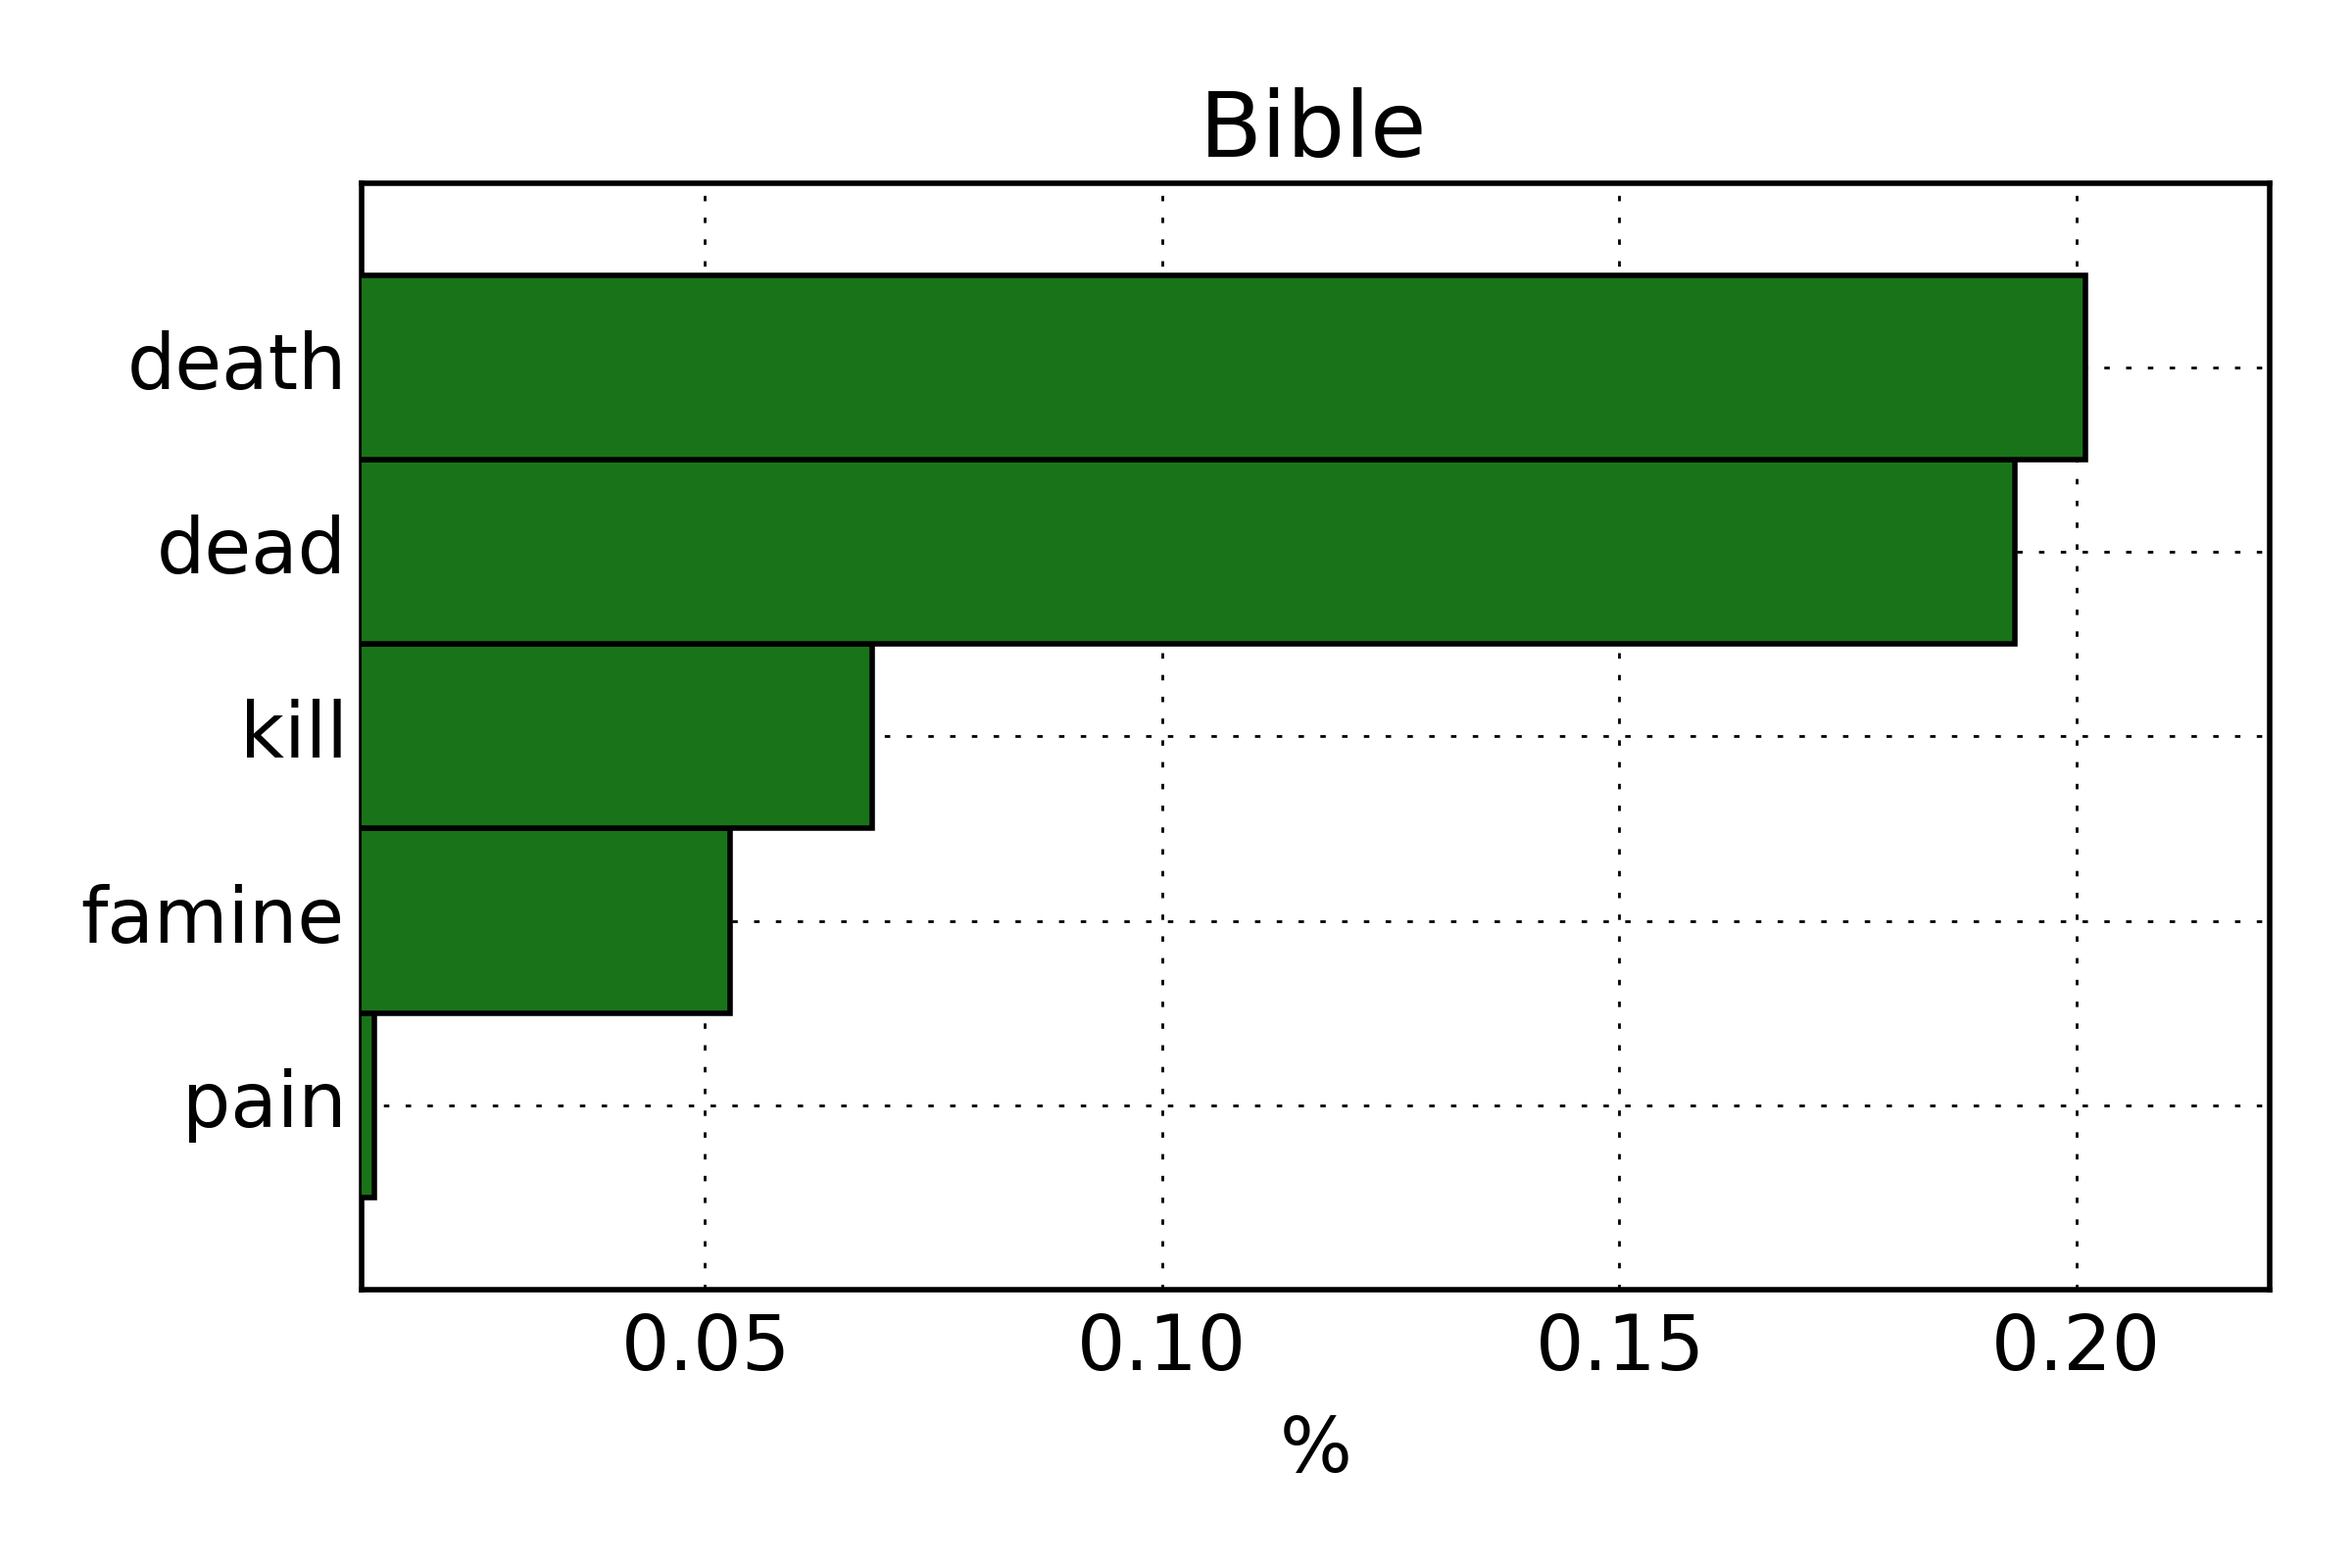
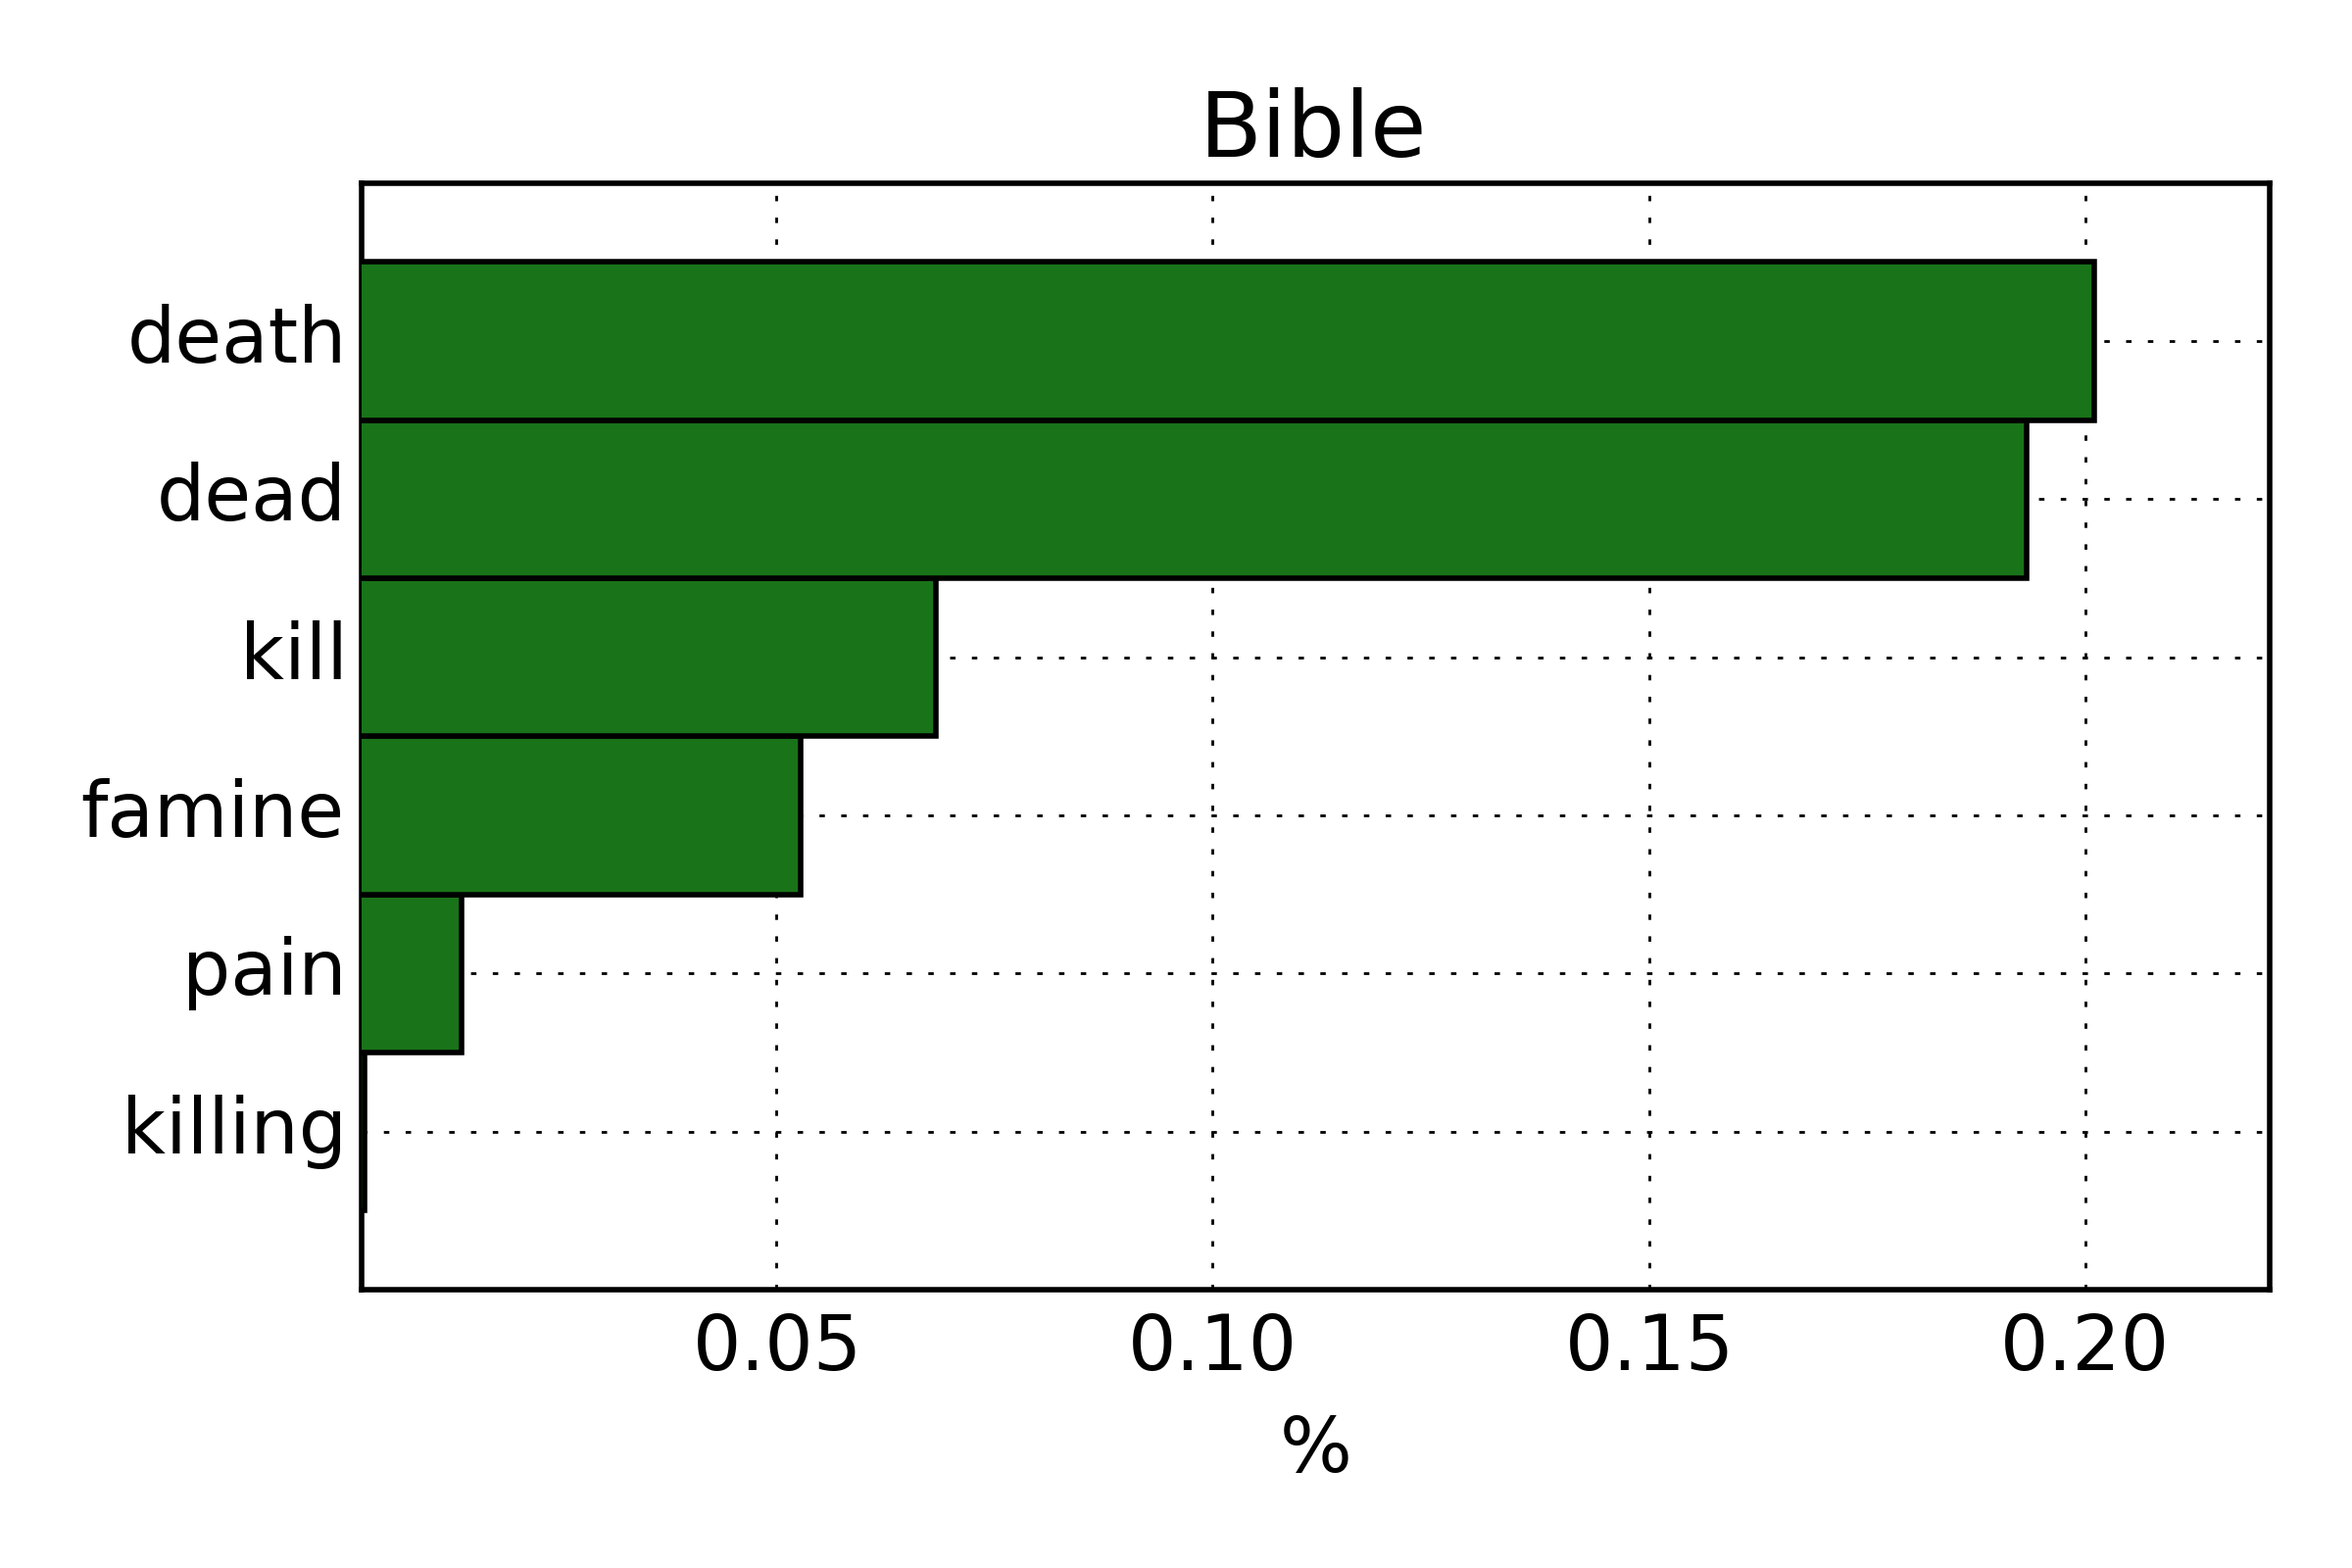
Added the word killing to k/d ratio

diff --git a/Code/main.py b/Code/main.py
@@ -26,6 +26,9 @@ plt.rc('font', **font)
 
 if __name__ == '__main__':
 
+    data_dir = '../Data/'
+    save_dir = '../Figures/'
+
     '''
     Counting
     '''
@@ -34,6 +37,7 @@ if __name__ == '__main__':
     top = 10
 
     # Load the bible and quran
+
     txts = ['Bible', 'Quran']
     plus = '_nouns'
 
@@ -45,7 +49,7 @@ if __name__ == '__main__':
     for j in txts:
         tj += 1
         frequencies = Counter()
-        with open(j + plus + '.txt') as f:
+        with open(data_dir + j + plus + '.txt') as f:
             for line in f:
                 frequencies.update(line.lower().split())
 
@@ -92,7 +96,7 @@ if __name__ == '__main__':
 
         ax.set_title(to_title)
         plt.tight_layout()
-        plt.savefig(to_save + '.png', dpi=400)
+        plt.savefig(save_dir + to_save + '.png', dpi=400)
 
         plt.show()
 
@@ -115,7 +119,7 @@ if __name__ == '__main__':
         for j in txts:
             tj += 1
             frequencies = Counter()
-            with open(j + plus + '.txt') as f:
+            with open(data_dir + j + plus + '.txt') as f:
                 for line in f:
                     frequencies.update(line.lower().split())
 
@@ -160,7 +164,7 @@ if __name__ == '__main__':
 
             ax.set_title(to_title)
             plt.tight_layout()
-            plt.savefig(to_save + '.png', dpi=400)
+            plt.savefig(save_dir + to_save + '.png', dpi=400)
 
             plt.show()
 
@@ -179,13 +183,13 @@ if __name__ == '__main__':
     # Set aspect ratio to be equal so that pie is drawn as a circle.
     plt.axis('equal')
     plt.title('Pos/neg ratio')
-    plt.savefig('pos_neg_ratio.png', dpi=400)
+    plt.savefig(save_dir + 'pos_neg_ratio.png', dpi=400)
     plt.show()
 
     '''
-    Kill, famine, pain, death(+dead)
+    Kill, killing, famine, pain, death(+dead)
     '''
-    bad_words = np.array(['kill', 'famine', 'pain', 'death', 'dead'])
+    bad_words = np.array(['kill', 'killing', 'famine', 'pain', 'death', 'dead'])
     top = len(bad_words)
     top_words_count = np.zeros([len(txts), top])
     top_words_name = np.chararray([len(txts), top], itemsize=50)
@@ -194,7 +198,7 @@ if __name__ == '__main__':
     for k in xrange(len(txts)):
         bad_words_num = np.zeros(top)
 
-        data = np.genfromtxt(txts[k] + '_neg.txt', delimiter='\n', dtype=np.str, autostrip=True)
+        data = np.genfromtxt(data_dir + txts[k] + '_neg.txt', delimiter='\n', dtype=np.str, autostrip=True)
 
         for i in xrange(len(data)):
             if data[i] in bad_words:
@@ -220,7 +224,20 @@ if __name__ == '__main__':
     k_d = np.zeros(len(txts))
     for k in xrange(len(txts)):
 
-        k_d[k] = rev_top_words_count[k, 2] / (rev_top_words_count[k, 0] + rev_top_words_count[k, 1])
+        #k_d[k] = rev_top_words_count[k, 2] / (rev_top_words_count[k, 0] + rev_top_words_count[k, 1])
+
+        tot_kill = 0
+        tot_dead = 0
+
+        for i in xrange(top):
+            if rev_top_words_name[k, i] == 'kill' or rev_top_words_name[k, i] == 'killing':
+                #print 'kill'
+                tot_kill += rev_top_words_count[k, i]
+            elif rev_top_words_name[k, i] == 'death' or rev_top_words_name[k, i] == 'dead':
+                #print 'dead'
+                tot_dead += rev_top_words_count[k, i]
+
+        k_d[k] = float(tot_kill)/tot_dead
 
 
 
@@ -245,7 +262,7 @@ if __name__ == '__main__':
         ax.set_xlabel('%')
         ax.set_title(txts[k])
         plt.tight_layout()
-        plt.savefig(txts[k] + '_bad_words.png', dpi=400)
+        plt.savefig(save_dir + txts[k] + '_bad_words.png', dpi=400)
 
         plt.show()
 
@@ -267,5 +284,5 @@ if __name__ == '__main__':
 
     ax.set_title('K/D ratio')
     plt.tight_layout()
-    plt.savefig('k_d_ratio.png', dpi=400)
+    plt.savefig(save_dir + 'k_d_ratio.png', dpi=400)
     plt.show()
